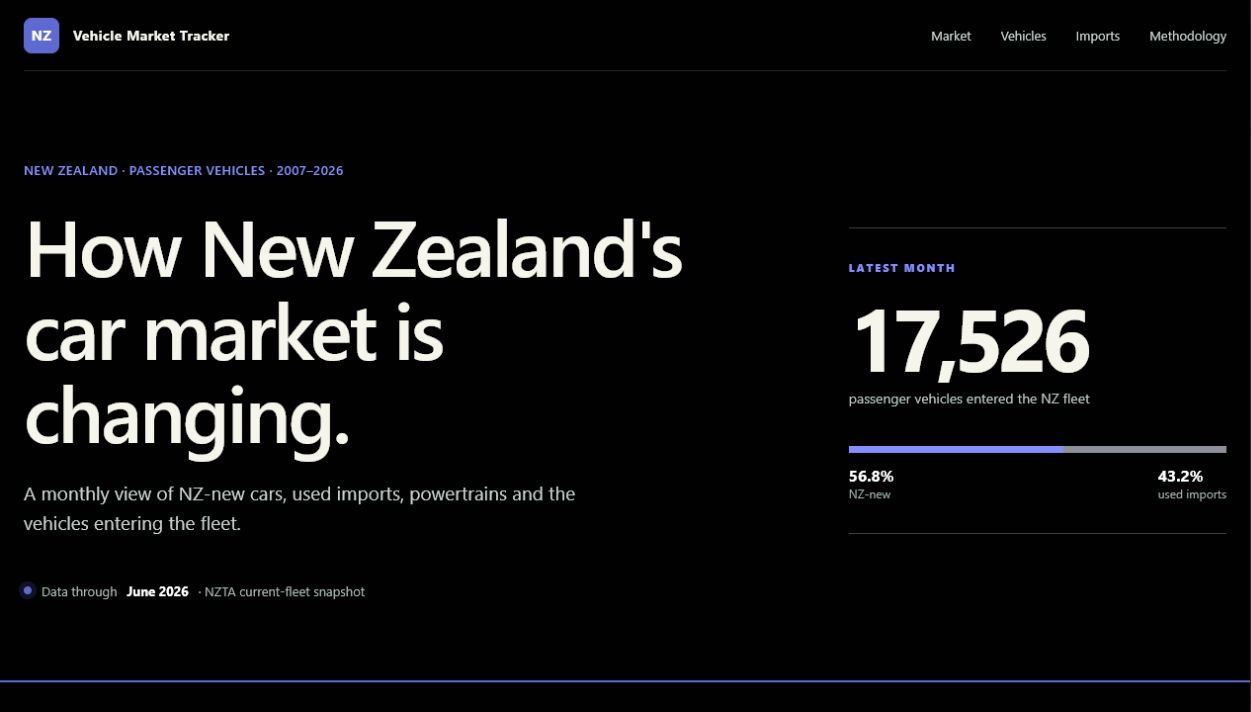
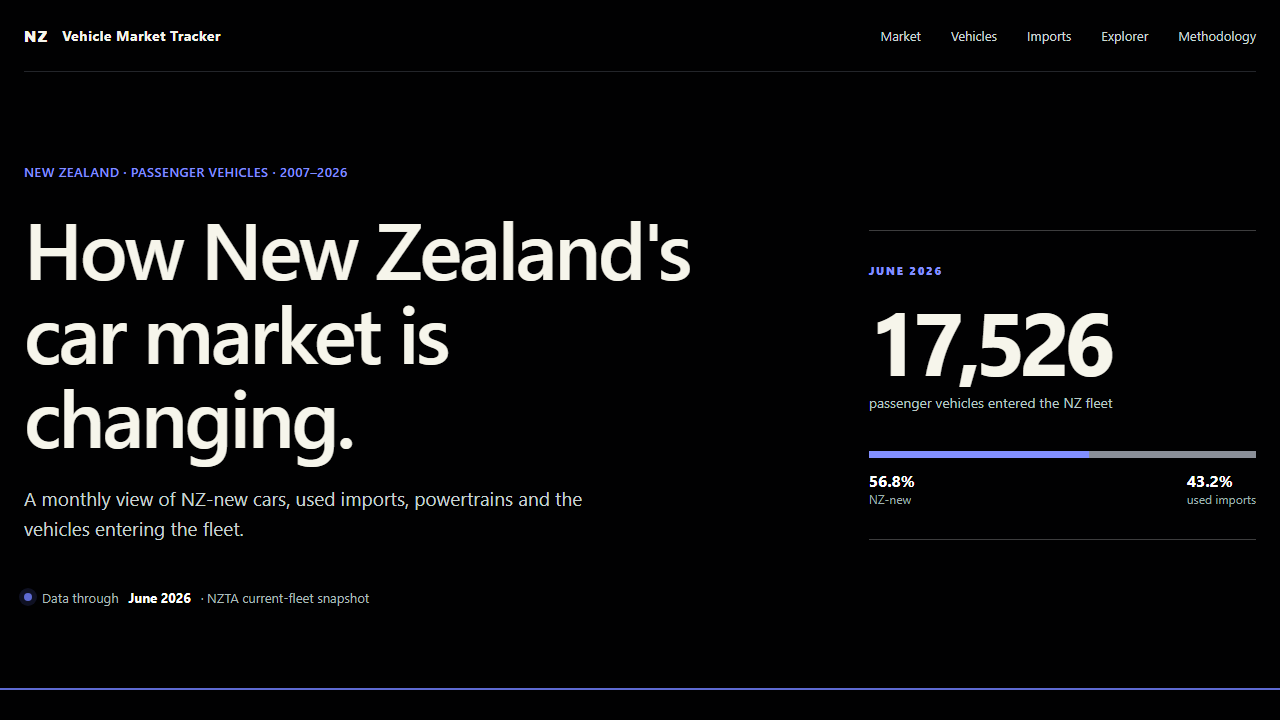
feat: refresh NZ vehicle tracker showcase (#19)

diff --git a/src/data/portfolio.ts b/src/data/portfolio.ts
@@ -18,41 +18,52 @@ export const projects: Project[] = [
     category: 'Data engineering',
     title: 'NZ Vehicle Market Tracker',
     description:
-      'A reproducible data product that transforms NZTA fleet data into validated monthly aggregates and an interactive market dashboard.',
+      'A reproducible data product that transforms NZTA fleet data into validated aggregates and an interactive market dashboard.',
     highlight:
-      'Streams 5.9 million source rows and publishes refreshed data through an automated CI/CD pipeline.',
+      'Streams 5.9 million source rows, supports current-fleet exploration, and publishes through an automated CI/CD pipeline.',
     technologies: ['Python', 'React', 'TypeScript', 'Data pipelines', 'GitHub Actions'],
     links: [
       {
         label: 'Live dashboard',
         href: 'https://michaelocez.github.io/nz-vehicle-market-tracker/',
       },
+      {
+        label: 'Repository',
+        href: 'https://github.com/michaelocez/nz-vehicle-market-tracker',
+      },
     ],
     featured: true,
     details: {
       summary:
-        'A production-style data project that streams NZTA\'s current-fleet release, applies documented analytical boundaries, generates compact monthly datasets, and publishes a responsive dashboard. The private source repository includes automated validation, scheduled refreshes, snapshot retention, and GitHub Pages deployment.',
+        'A production-style data project that streams NZTA\'s current-fleet release, applies documented analytical boundaries, and publishes a responsive dashboard. Its public repository includes automated validation, weekly refresh checks, snapshot retention, current-fleet rankings, and an exact make-and-model explorer.',
       gallery: [
         {
           type: 'image',
           src: '/projects/nz-vehicle-market-tracker/1.png',
           alt: 'NZ Vehicle Market Tracker introduction showing the June 2026 passenger-vehicle total and the split between NZ-new cars and used imports.',
           caption:
-            'The published dashboard introduces the latest market snapshot and its NZ-new versus used-import split.',
+            'The dashboard opens with the latest market snapshot and its NZ-new versus used-import split.',
         },
         {
           type: 'image',
           src: '/projects/nz-vehicle-market-tracker/2.png',
-          alt: 'Annual grouped bar chart comparing NZ-new passenger vehicles with used imports from 2017 through June 2026.',
+          alt: 'NZ Vehicle Market Tracker vehicle analysis showing June 2026 powertrain composition, leading makes, and a toggle between latest entries and the current fleet.',
           caption:
-            'A selectable time range compares how the two main entry channels have changed over time.',
+            'Vehicle rankings can switch between the latest entries and the current scoped fleet.',
         },
         {
           type: 'image',
           src: '/projects/nz-vehicle-market-tracker/3.png',
-          alt: 'Dashboard panels summarising June 2026 powertrains and the five leading vehicle makes entering the New Zealand fleet.',
+          alt: 'Dashboard panels comparing NZ-new and used-import arrival channels within each powertrain and listing the leading models for June 2026.',
           caption:
-            'Latest-month analysis connects powertrain composition with leading makes and models.',
+            'Arrival-channel analysis shows how each major powertrain reaches the New Zealand fleet.',
+        },
+        {
+          type: 'image',
+          src: '/projects/nz-vehicle-market-tracker/4.png',
+          alt: 'Make and model explorer showing the current scoped fleet totals for Toyota, including NZ-new, used-import, and other vehicles.',
+          caption:
+            'The make-and-model explorer exposes exact current-fleet totals beyond the monthly top-five rankings.',
         },
       ],
       results: {
@@ -75,7 +86,7 @@ export const projects: Project[] = [
           },
           {
             label: 'Automated checks',
-            value: '22 tests',
+            value: '23 tests',
           },
         ],
       },
@@ -103,12 +114,12 @@ export const projects: Project[] = [
           {
             label: 'Versioned aggregates',
             detail:
-              'Write eight compact JSON dimensions with record counts, SHA-256 checksums, and monthly archives',
+              'Write ten compact JSON datasets with record counts, SHA-256 checksums, and monthly archives',
           },
           {
             label: 'Dashboard delivery',
             detail:
-              'Test the React interface, refresh data monthly, and deploy the validated build to GitHub Pages',
+              'Test the React interface, check for fresh source data weekly, and deploy the validated build to GitHub Pages',
           },
         ],
       },
